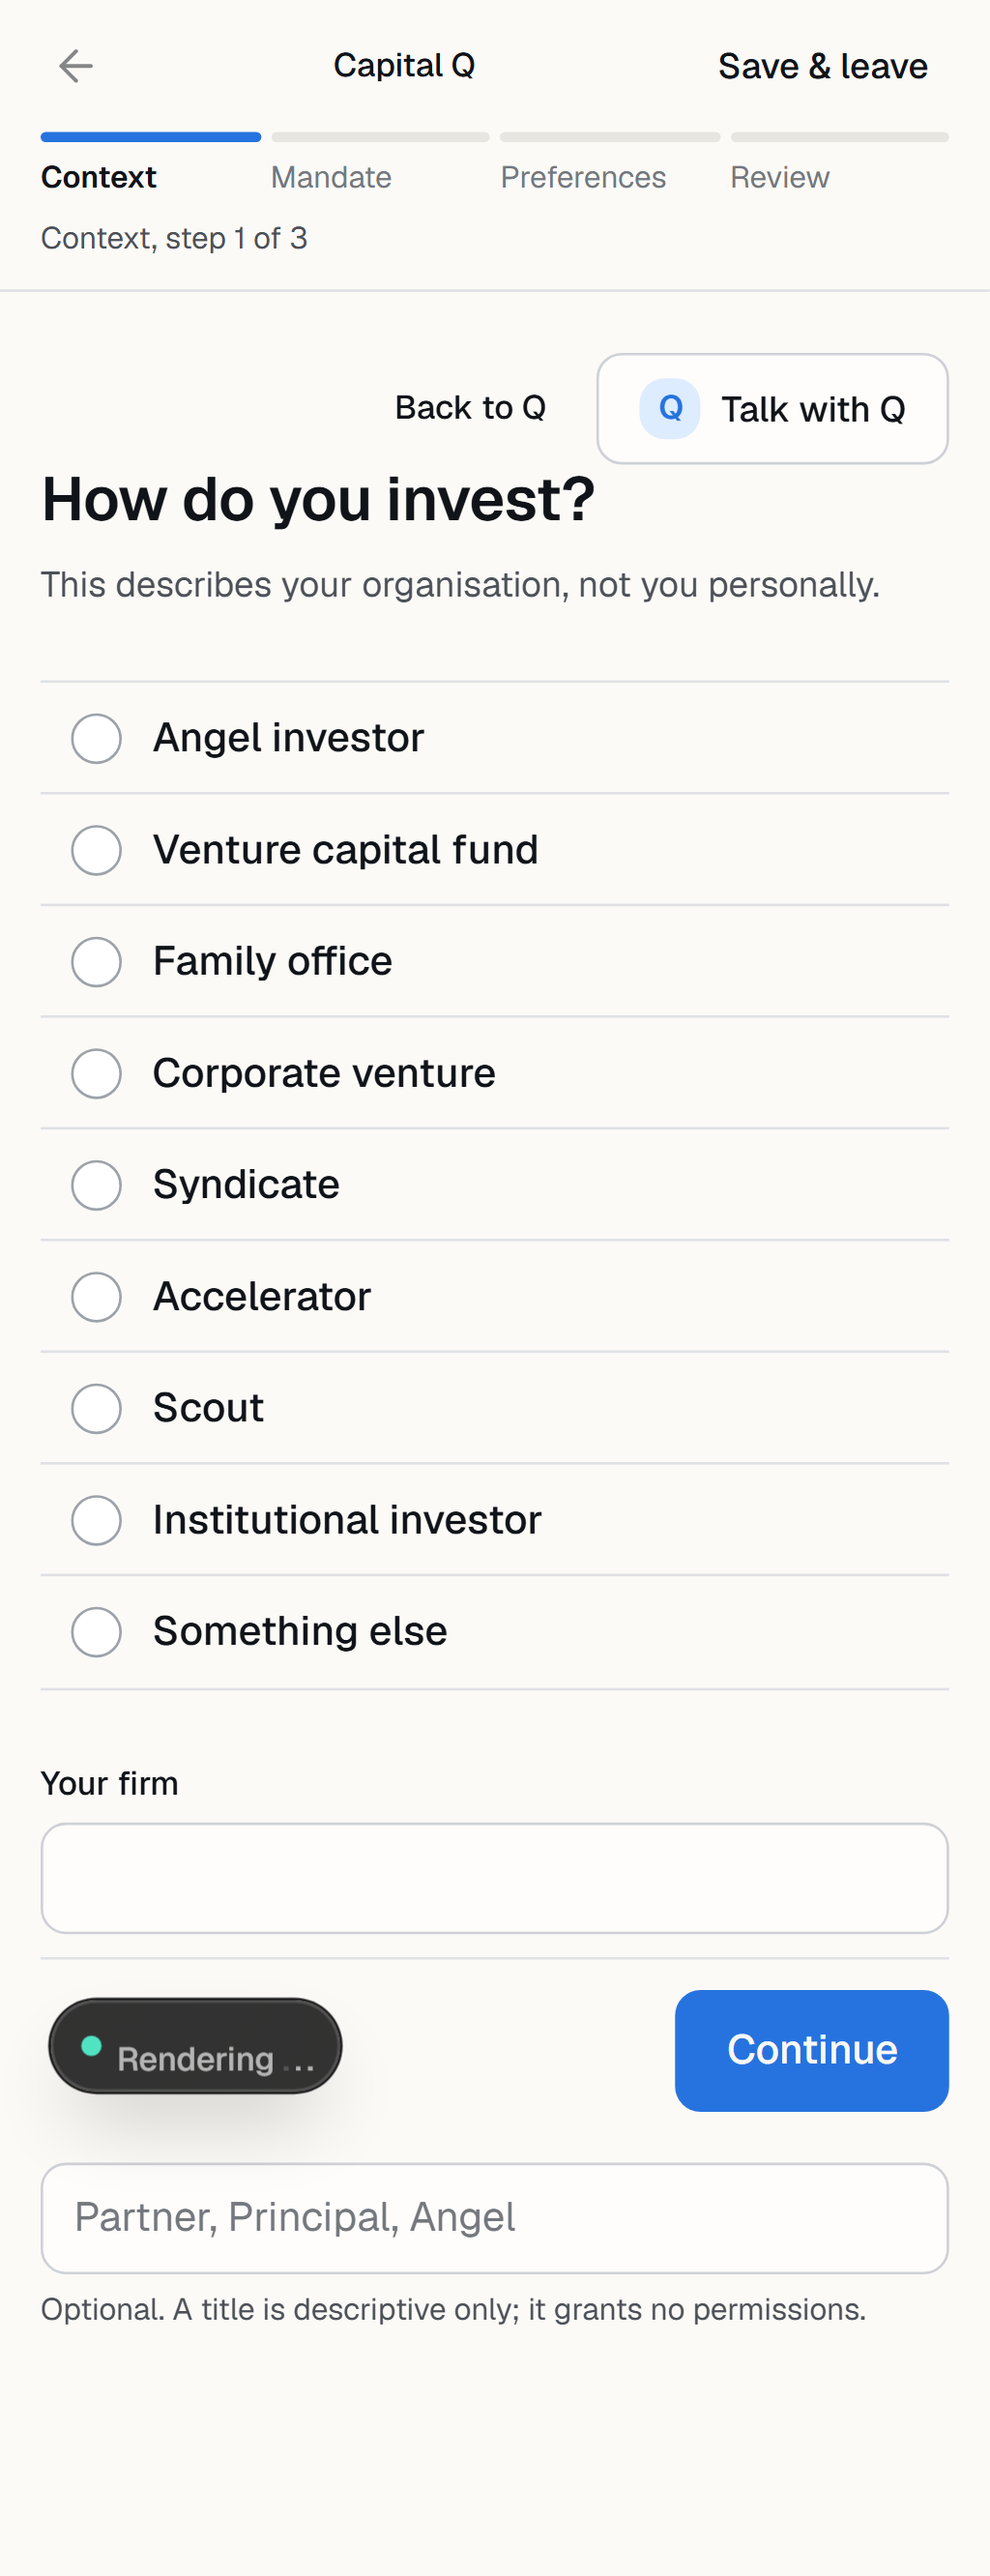
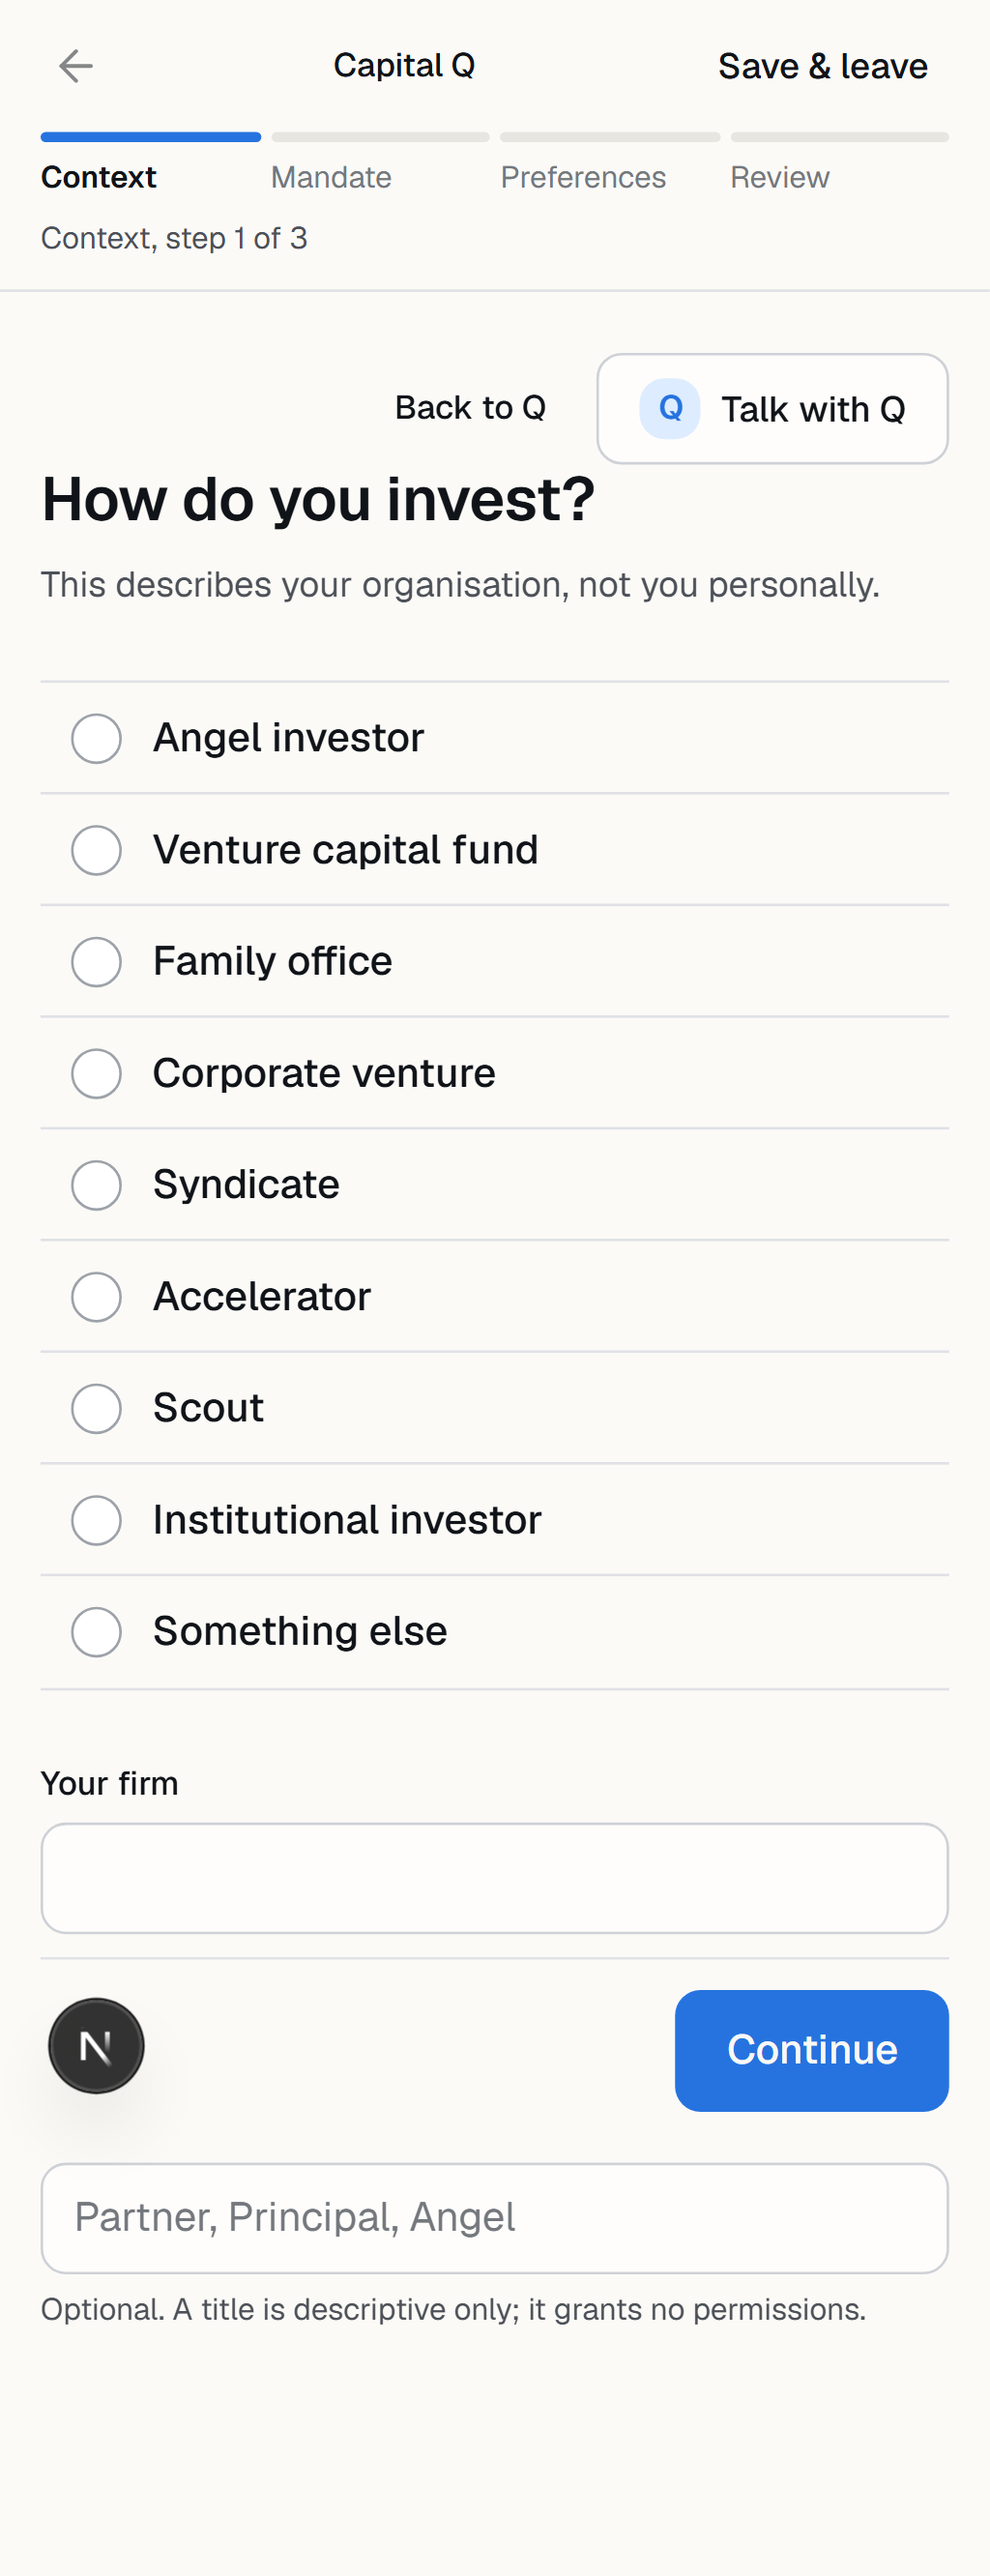
CQ-UI-030 B6 fix-up: the visibility panel header wraps on a phone; the investor captures
The panel header lets the scope indicator drop under a long title at
390 px rather than squeezing it to "Private to or..."; the investor
screen's version line is a caption at reading width so it no longer
breaks around its number. Investor journey captures at 390 x 844 and
1440 x 900 (rows 1, 2, 5, 6, 7) and the founder form in the dark
scheme (rows 1, 2, 8).

Changed region(s): [[0.0625, 0.7477, 0.3438, 0.8412]]

diff --git a/apps/web/src/features/investor/visibility-screen.tsx b/apps/web/src/features/investor/visibility-screen.tsx
@@ -172,7 +172,7 @@ export function InvestorVisibilityScreen({
         className="cq-panel max-w-(--cq-layout-reading)"
         data-visible={visible ? "true" : "false"}
       >
-        <header className="cq-panel-header">
+        <header className="cq-panel-header flex-wrap">
           <h2
             id="investor-visibility-status"
             className="cq-title-md text-(--cq-text-primary)"
@@ -266,7 +266,7 @@ export function InvestorVisibilityScreen({
         </div>
       </section>
 
-      <p className="cq-status-line">
+      <p className="cq-caption max-w-(--cq-layout-reading) text-(--cq-text-tertiary)">
         Profile version{" "}
         <span className="cq-numeric">{String(investor.version)}</span>. Changing
         visibility is recorded; nothing else about you is shared by it.

diff --git a/apps/web/src/features/company/visibility-screen.tsx b/apps/web/src/features/company/visibility-screen.tsx
@@ -196,7 +196,7 @@ export function VisibilityScreen({ companyId }: VisibilityScreenProps) {
         className="cq-panel max-w-(--cq-layout-reading)"
         data-visible={visible ? "true" : "false"}
       >
-        <header className="cq-panel-header">
+        <header className="cq-panel-header flex-wrap">
           <h2
             id="visibility-status"
             className="cq-title-md text-(--cq-text-primary)"
